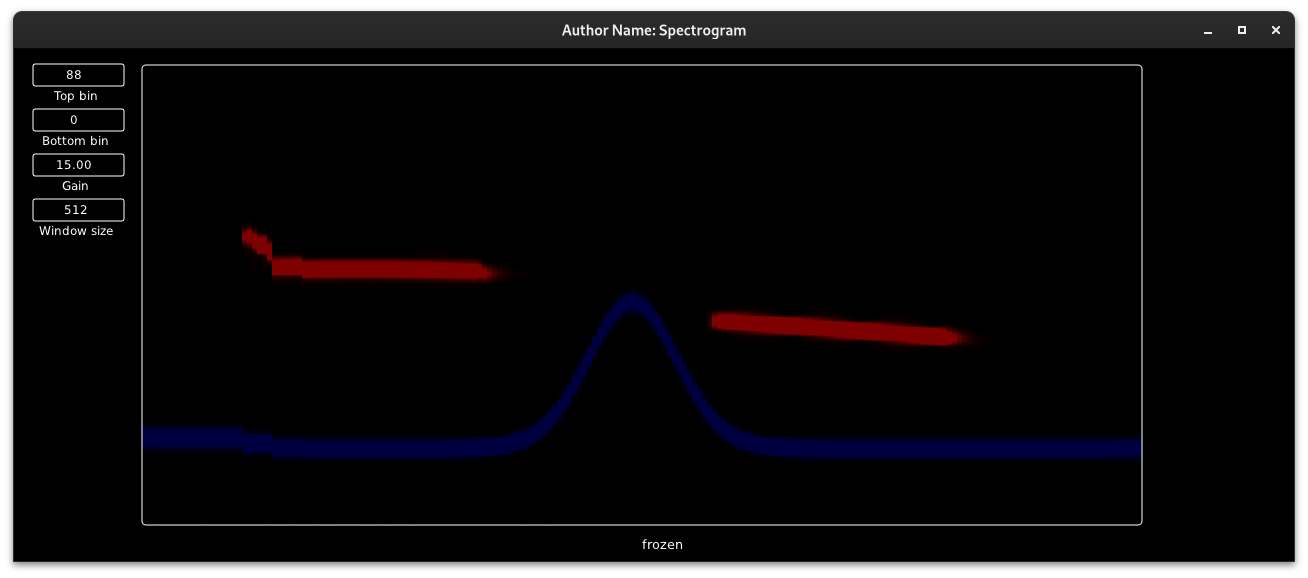
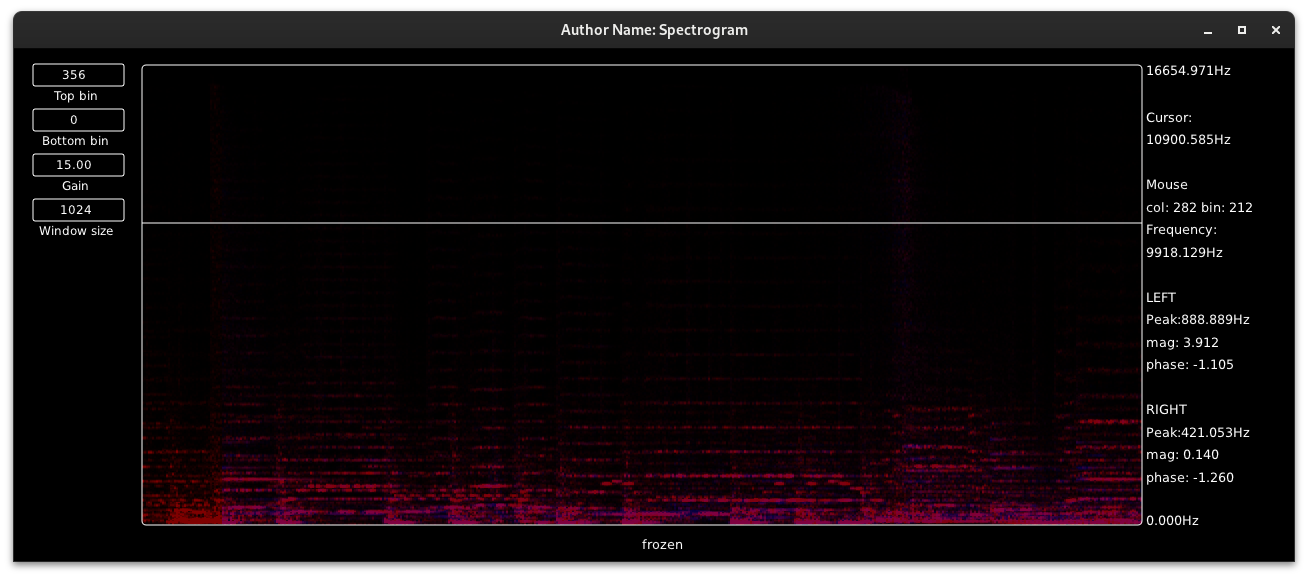
Update readme and screenshot

diff --git a/README.md b/README.md
@@ -1,8 +1,13 @@
 # Maybe a sonogram?
 
-> ⚠ WIP
+- Left click to freeze view
+- Dumps the view to a *huge* CSV file upon freezing*
+- Right click to place an horizontal cursor
+- Drag vertically on the number boxes to adjust, ctrl + drag for finer adjustments, scrollwheel works too
 
 Debian Testing/Unstable x64 build [here](https://point.pointorg.org/s/9bLRwX5p7dGoftY)
+
+![screenshot.png](screenshot.png)
 
 To build locally, update `CMakeLists.txt` to point to a clone of DPF on `develop` branch
 
@@ -14,5 +19,12 @@ pw-jack ./build/bin/Spectrogram
 
 Or start Carla then drag and drop `./build/bin/Spectrogram-vst2.so`
 
+ \* Dump is ~9MB and looks like that:
+ ```
+ 0270_left_mag,31.306980,74.390343,...
+0270_left_phase,0.000000,2.933716,...
+0270_right_mag,25.216019,84.440460,...
+0270_right_phase,0.000000,2.100785,...
+```
 
-![screenshot.png](screenshot.png)
+
